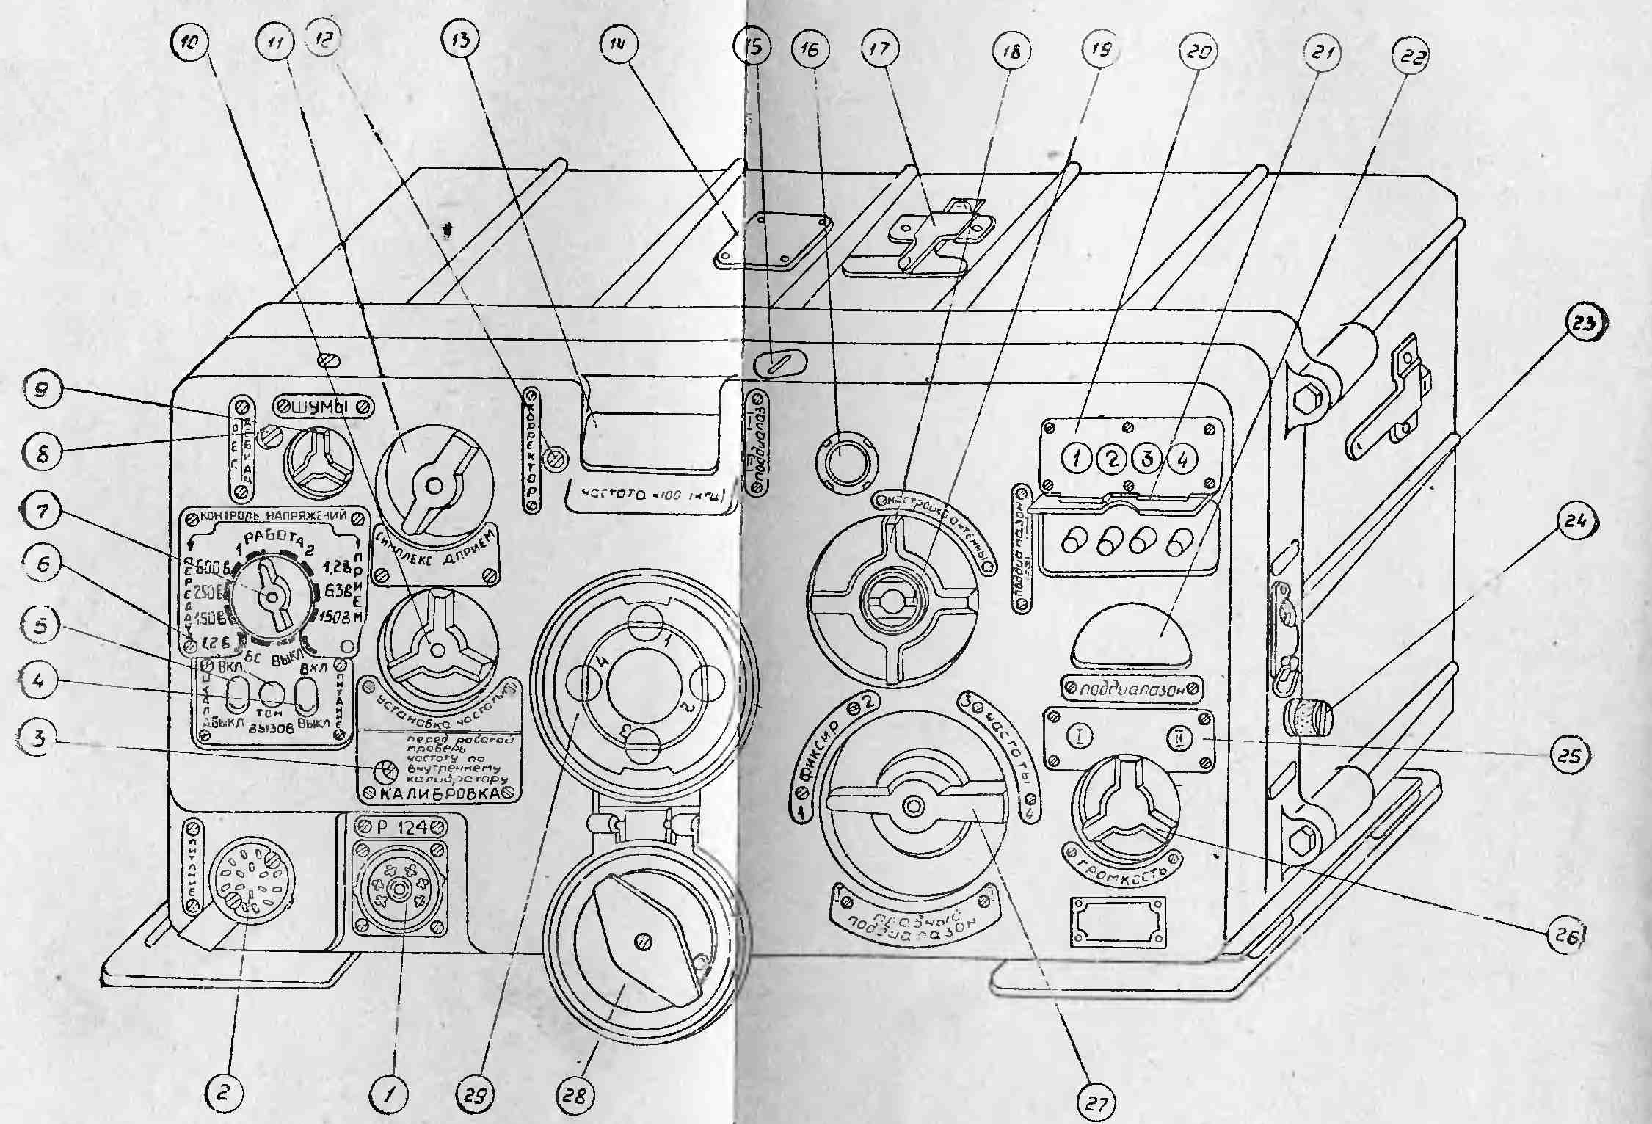
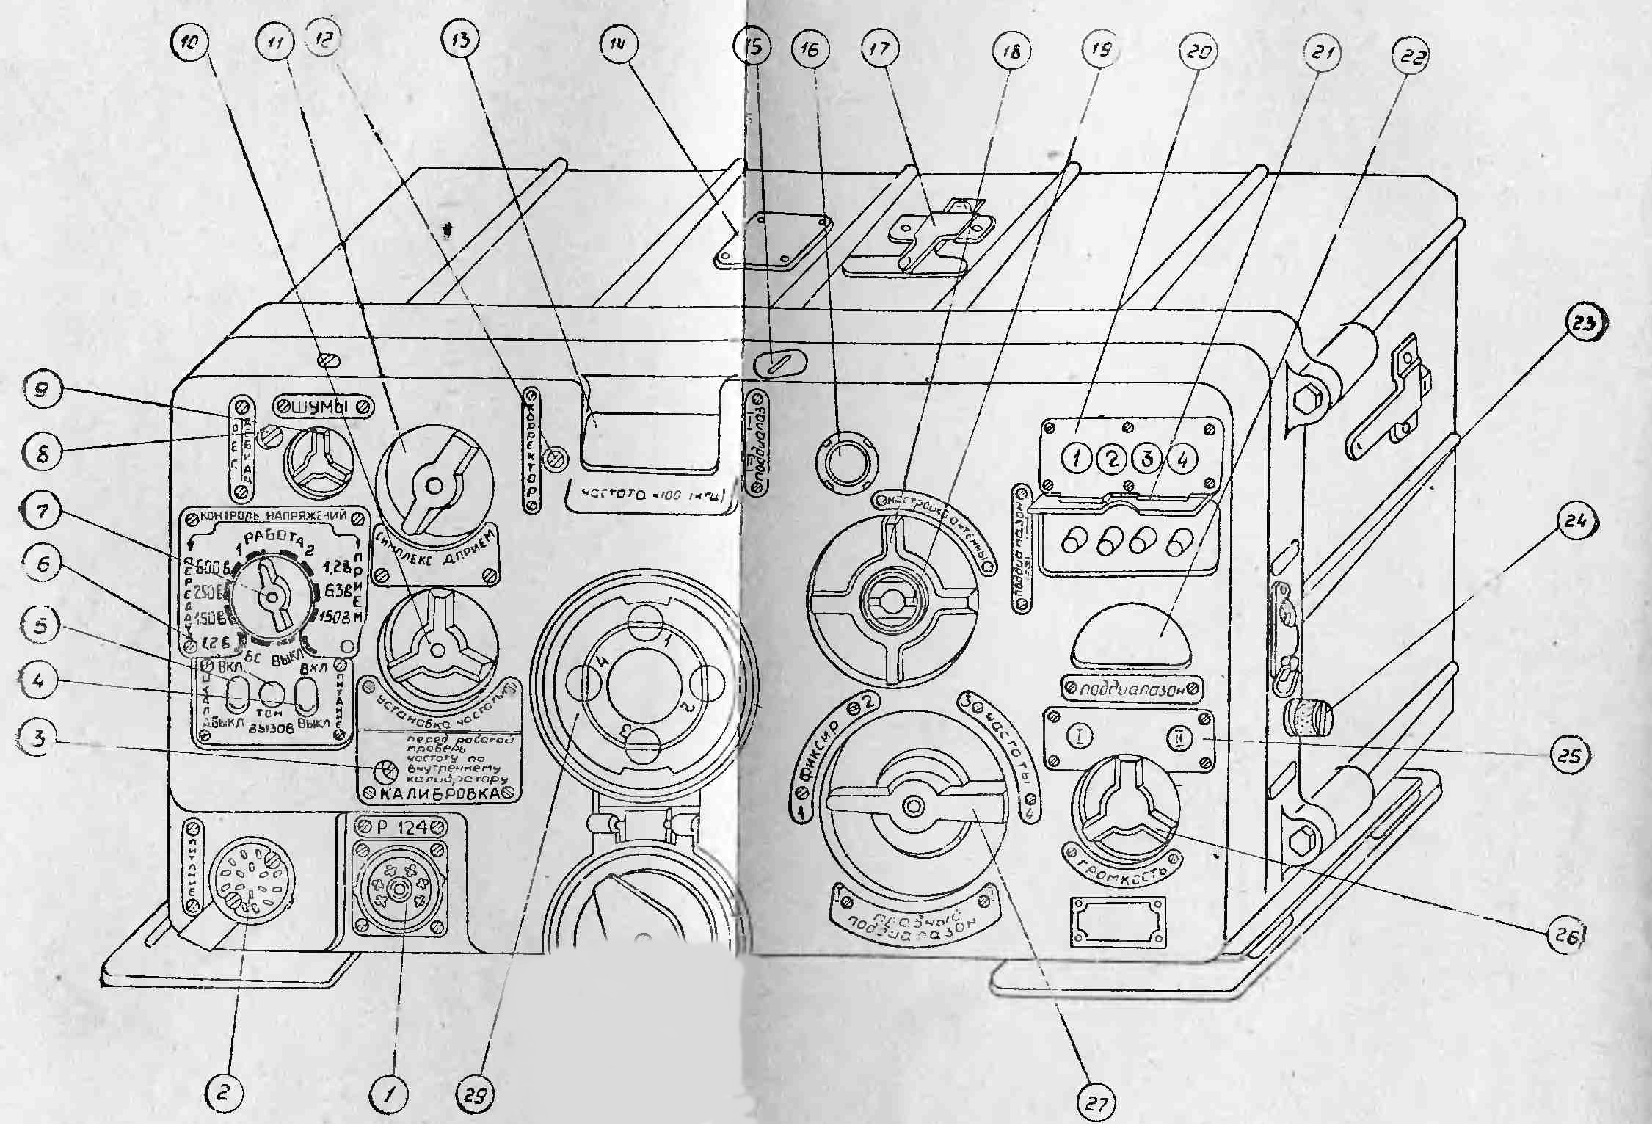
add function SetDefaultValue for radio

Changed region(s): [[0.3087, 0.8407, 0.4631, 1.0]]

diff --git a/R123/MainWindow.xaml b/R123/MainWindow.xaml
@@ -37,10 +37,10 @@
     </Window.Resources>
     <Grid>
         <TabControl Name="Tabs_TabControl">
-            <TabItem Visibility="Hidden" Width="0">
+            <TabItem><!--Visibility="Hidden" Width="0"-->
                 <TabItem.Header>
                     <StackPanel Orientation="Horizontal">
-                        <TextBlock Style="{StaticResource TextInTabItemHeader}"></TextBlock>
+                        <TextBlock Style="{StaticResource TextInTabItemHeader}">Приветствие</TextBlock>
                     </StackPanel>
                 </TabItem.Header>
                 <TabItem.Content>
@@ -59,10 +59,12 @@
                             <RowDefinition Height="*"/>
                             <RowDefinition Height="10*"/>
                             <RowDefinition Height="*"/>
+                            <RowDefinition Height="*"/>
                         </Grid.RowDefinitions>
                         <TextBlock Grid.Row="1" Text="Обучающая программа-симулятор радиостанци Р-123М" VerticalAlignment="Bottom"/>
                         <Image Grid.Row="2" Source="Files/FotoR123.jpg"/>
                         <TextBlock Grid.Row="3" Text="Р-123М — БОРТОВАЯ РАДИОСТАНЦИЯ ДИАПАЗОНА 20.0 — 51.5 МГЦ" VerticalAlignment="Top"/>
+                        <TextBlock Grid.Row="4" Text="Чтобы веруться на это окно нажмите Esc" FontSize="10" Canvas.Bottom="0" Canvas.Right="0" VerticalAlignment="Bottom" HorizontalAlignment="Right"/>
                     </Grid>
                 </TabItem.Content>
             </TabItem>
@@ -92,7 +94,7 @@
                 <TabItem.Header>
                     <StackPanel Orientation="Horizontal">
                         <!--<Rectangle Height="10" Width="10" Fill="Black" />-->
-                        <TextBlock Style="{StaticResource TextInTabItemHeader}">3. Радиостанция</TextBlock> <!--Задачи -->
+                        <TextBlock Style="{StaticResource TextInTabItemHeader}">3. Тестирование</TextBlock> <!--Задачи -->
                     </StackPanel>
                 </TabItem.Header>
                 <TabItem.Content>

diff --git a/R123/MainScreens/Learning.xaml b/R123/MainScreens/Learning.xaml
@@ -139,10 +139,9 @@
                 <Line X1="932" X2="760" Y1="119" Y2="248"/>
                 <Line X1="922" X2="775" Y1="203" Y2="284"/>
                 <Line X1="914" X2="700" Y1="303" Y2="295"/>
-                <!-- 26 - 29 -->
+                <!-- 26 - 28 -->
                 <Line X1="920" X2="680" Y1="376" Y2="332"/>
                 <Line X1="640" X2="580" Y1="438" Y2="342"/>
-                <Line X1="335" X2="366" Y1="436" Y2="392"/>
                 <Line X1="279" X2="330" Y1="438" Y2="300"/>
 
                 <Canvas Name="BorderSet_Canvas">
@@ -227,11 +226,8 @@
                     <Border Style="{StaticResource Number}" Canvas.Left="623" Canvas.Top="420">
                         <TextBlock Style="{StaticResource TextNumber}" Text="27"/>
                     </Border>
-                    <Border Style="{StaticResource Number}" Canvas.Left="323" Canvas.Top="421">
-                        <TextBlock Style="{StaticResource TextNumber}" Text="28"/>
-                    </Border>
                     <Border Style="{StaticResource Number}" Canvas.Left="263" Canvas.Top="419">
-                        <TextBlock Style="{StaticResource TextNumber}" Text="29"/>
+                        <TextBlock Style="{StaticResource TextNumber}" Text="28"/>
                     </Border>
                 </Canvas>
             </Canvas>

diff --git a/R123/MainScreens/Learning.xaml.cs b/R123/MainScreens/Learning.xaml.cs
@@ -213,7 +213,6 @@ namespace R123.MainScreens
 25 - две лампочки светового табло поддиапазонов. При включении радостанции на I поддиапазон загорается лампочка 'I', при включении на II поддиапазон - лампочка 'II'
 26 - ручка регулятора громкости - 'ГРОМКОСТЬ'. При вращении ручки по часовой стрелке громкость возрастает, при вращении против часовой стрелки - уменьшается до некоторого небольшого уровня в крайнем положении
 27 - переключатель 'ФИКСИР. ЧАСТОТЫ - ПЛАВНЫЙ ПОДДИАПАЗОН'. Выбор фиксированной частоты производится установкой переключателя в одно из положений 'ФИКСИР. ЧАТСОТЫ 1, 2, 3 или 4'. При установке переключателя в положение 'ПЛАВНЫЙ ПОДДИАПАЗОН I (II)' механизм установки частоты расфиксируется
-28 - крышка люка барабана. При открытой крышке люка имеется доступ к четырем фиксаторам 29
-29 - четыре фиксатора дисков установки частоты, которыми с помощью ключа 17 фиксируются частоты, установленные переключателем 27. Первой фиксированной частоте соответствует фиксатор '1', второй '2' и т.д.";
+28 - четыре фиксатора дисков установки частоты, которыми с помощью ключа 17 фиксируются частоты, установленные переключателем 27. Первой фиксированной частоте соответствует фиксатор '1', второй '2' и т.д.";
     }
 }

diff --git a/R123/Learning/WorkingCapacityPage.xaml.cs b/R123/Learning/WorkingCapacityPage.xaml.cs
@@ -49,6 +49,9 @@ namespace R123.Learning
         public WorkingCapacityPage()
         {
             InitializeComponent();
+
+            subscribeMouseMove = false;
+
             RadioPage = new Radio.View.RadioPage();
             workingTest = new WorkingTest(RadioPage.Radio);
             Frame.Content = RadioPage;
@@ -63,16 +66,23 @@ namespace R123.Learning
             Subscribes[currentStep]();
         }
 
+        private bool subscribeMouseMove;
+
         private void WorkingPage_IsVisibleChanged(object sender, DependencyPropertyChangedEventArgs e)
         {
             Logic.PageChanged(e.NewValue.Equals(true), RadioPage.Radio);
 
-            MouseMove += WorkingCapacityPage_MouseMove;
+            if (!subscribeMouseMove)
+            {
+                subscribeMouseMove = true;
+                MouseMove += WorkingCapacityPage_MouseMove;
+            }
         }
 
         private void WorkingCapacityPage_MouseMove(object sender, System.Windows.Input.MouseEventArgs e)
         {
             MouseMove -= WorkingCapacityPage_MouseMove;
+            subscribeMouseMove = false;
             string message = "На текущем шаге вы научитесь проверять работоспособность радиостанции.\r\n" +
                              "Выполняйте последовательно шаги.\r\n" +
                              "Если что-то не понятно, то всплывающие подсказки помогут вам разобраться.\r\n" +

diff --git a/R123/Learning/TuningPage.xaml.cs b/R123/Learning/TuningPage.xaml.cs
@@ -46,6 +46,9 @@ namespace R123
         public TuningPage()
         {
             InitializeComponent();
+
+            subscribeMouseMove = false;
+
             RadioPage = new Radio.View.RadioPage();
             tuningTest = new TuningTest(RadioPage.Radio);
             Frame.Content = RadioPage;
@@ -61,9 +64,12 @@ namespace R123
             Subscribes[currentStep]();
         }
 
+        private bool subscribeMouseMove;
+
         private void TuningPage_MouseMove(object sender, System.Windows.Input.MouseEventArgs e)
         {
             MouseMove -= TuningPage_MouseMove;
+            subscribeMouseMove = false;
             string message = "На текущем шаге вы научитесь подготавливать радиостанцию к работе.\r\n" +
                              "Выполняйте последовательно шаги.\r\n" +
                              "Если что-то не понятно, то всплывающие подсказки помогут вам разобраться.\r\n" +
@@ -76,7 +82,11 @@ namespace R123
         private void TuningPage_IsVisibleChanged(object sender, DependencyPropertyChangedEventArgs e)
         {
             Logic.PageChanged(e.NewValue.Equals(true), RadioPage.Radio);
-            MouseMove += TuningPage_MouseMove;
+            if (!subscribeMouseMove)
+            {
+                subscribeMouseMove = true;
+                MouseMove += TuningPage_MouseMove;
+            }
         }
 
         #region Setters

diff --git a/R123/MainWindow.xaml.cs b/R123/MainWindow.xaml.cs
@@ -1,13 +1,9 @@
 using MCP.Logic;
 using System;
-using System.Drawing;
 using System.Windows;
 using System.Windows.Controls;
 using System.Windows.Data;
 using System.Windows.Input;
-using System.Windows.Interop;
-using System.Windows.Media.Imaging;
-using System.Windows.Threading;
 
 namespace R123
 {
@@ -17,7 +13,7 @@ namespace R123
             System.Globalization.CultureInfo culture)
         {
             TabControl tabControl = values[0] as TabControl;
-            double width = tabControl.ActualWidth / (tabControl.Items.Count - 1) - 3;
+            double width = tabControl.ActualWidth / (tabControl.Items.Count) - 1;
             return (width <= 1) ? 0 : (width - 1);
         }
 
